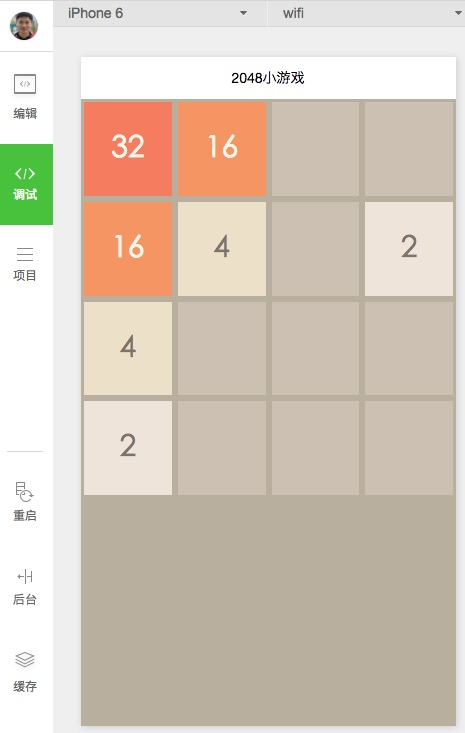
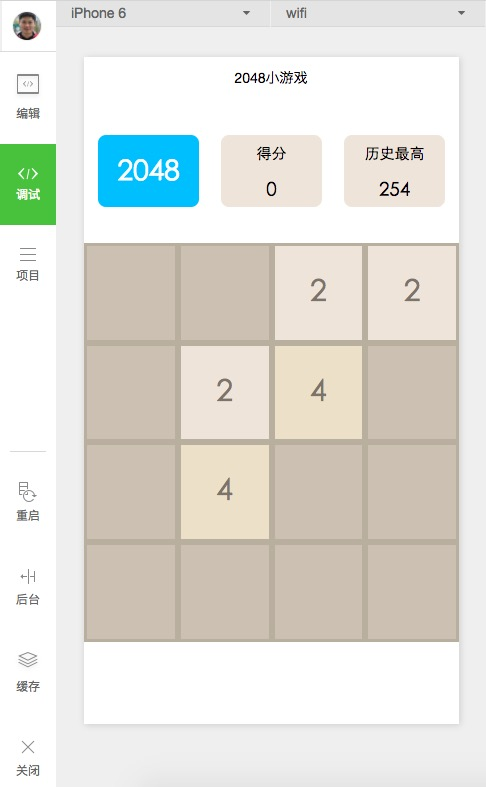
score

diff --git a/pages/index/index.js b/pages/index/index.js
@@ -3,12 +3,32 @@
 var app = getApp()
 Page({
   data: {
+    score: 0,
+    maxscore: 0,
     startx: 0,
     starty: 0,
     endx:0,
     endy:0,
     direction:'',
-    numbers:[[2,2,2,2],[0,2,8,0],[0,4,0,0],[0,0,0,0]],
+    numbers:[[0,0,2,2],[0,2,4,0],[0,4,0,0],[0,0,0,0]],
+    modalHidden: true,
+  },
+  onLoad: function () {
+    //调用API从本地缓存中获取数据
+    var maxscore = wx.getStorageSync('maxscore')
+    if(!maxscore) maxscore = 0
+    this.setData({
+      maxscore:maxscore
+      })
+  },
+  storeScore:function(){
+      console.log(this.data.maxscore, this.data.score)
+      if(this.data.maxscore < this.data.score){
+      this.setData({
+        maxscore:this.data.score
+        })
+        wx.setStorageSync('maxscore', this.data.maxscore)
+      }
   },
   tapStart: function(event){
     this.setData({
@@ -58,7 +78,6 @@ Page({
         break;
       default:
     }
-    
   },
 
   //左划
@@ -76,6 +95,9 @@ Page({
             arr[i][j] = arr[i][j] *2;
             arr[i][j+k] = 0;
             change = true;
+            this.setData({
+            score: this.data.score + arr[i][j]/2
+            })
             break;
           }
         }
@@ -97,6 +119,7 @@ Page({
     this.setData({
           numbers:arr
           })
+    this.storeScore()
     return change
   },
   //右滑
@@ -114,6 +137,9 @@ Page({
             arr[i][j] = arr[i][j] *2;
             arr[i][j-k] = 0;
             change = true;
+            this.setData({
+            score: this.data.score + arr[i][j]/2
+            })
             break;
           }
         }
@@ -135,6 +161,7 @@ Page({
     this.setData({
           numbers:arr
           })
+    this.storeScore()
     return change
   },
   //下划
@@ -152,6 +179,9 @@ Page({
             arr[j][i] = arr[j][i] *2;
             arr[j-k][i] = 0;
             change = true
+            this.setData({
+            score: this.data.score + arr[j][i]/2
+            })
             break;
           }
         }
@@ -173,6 +203,7 @@ Page({
     this.setData({
           numbers:arr
           })
+    this.storeScore()
     return change
   },
   //上滑
@@ -190,6 +221,9 @@ Page({
             arr[j][i] = arr[j][i] *2;
             arr[j+k][i] = 0;
             change = true
+            this.setData({
+            score: this.data.score + arr[j][i]/2
+            })
             break;
           }
         }
@@ -211,8 +245,10 @@ Page({
     this.setData({
           numbers:arr
           })
+    this.storeScore()
     return change
   },
+  //随机插入
   randInsert: function(){
     var arr = this.data.numbers
     //随机2或4
@@ -231,5 +267,34 @@ Page({
     this.setData({
       numbers:arr
       })
-  }
+    this.checkGame()
+  },
+  checkGame: function(){
+    var arr = this.data.numbers
+    for(var i = 0; i < 4; i++){
+      for(var j = 0; j < 4; j++){
+        if(arr[i][j] == 0) return;
+      }
+    }
+    for(var i = 0; i < 3; i++){
+      for(var j = 0; j < 3; j++){
+        if(arr[i][j] == arr[i+1][j] || arr[i][j] == arr[i][j+1]) return;
+      }
+    }
+        
+    for(var j = 0; j < 3; j++){
+      if(arr[3][j] == arr[3][j+1]) return;
+      if(arr[j][3] == arr[j+1][3]) return;
+    }
+    this.setData({
+      modalHidden: false,
+    })
+  },
+  modalChange:function(){
+    this.setData({
+      score: 0,
+      numbers:[[0,0,2,2],[0,2,4,0],[0,4,0,0],[0,0,0,0]],
+      modalHidden: true,
+    })
+  },
 })
